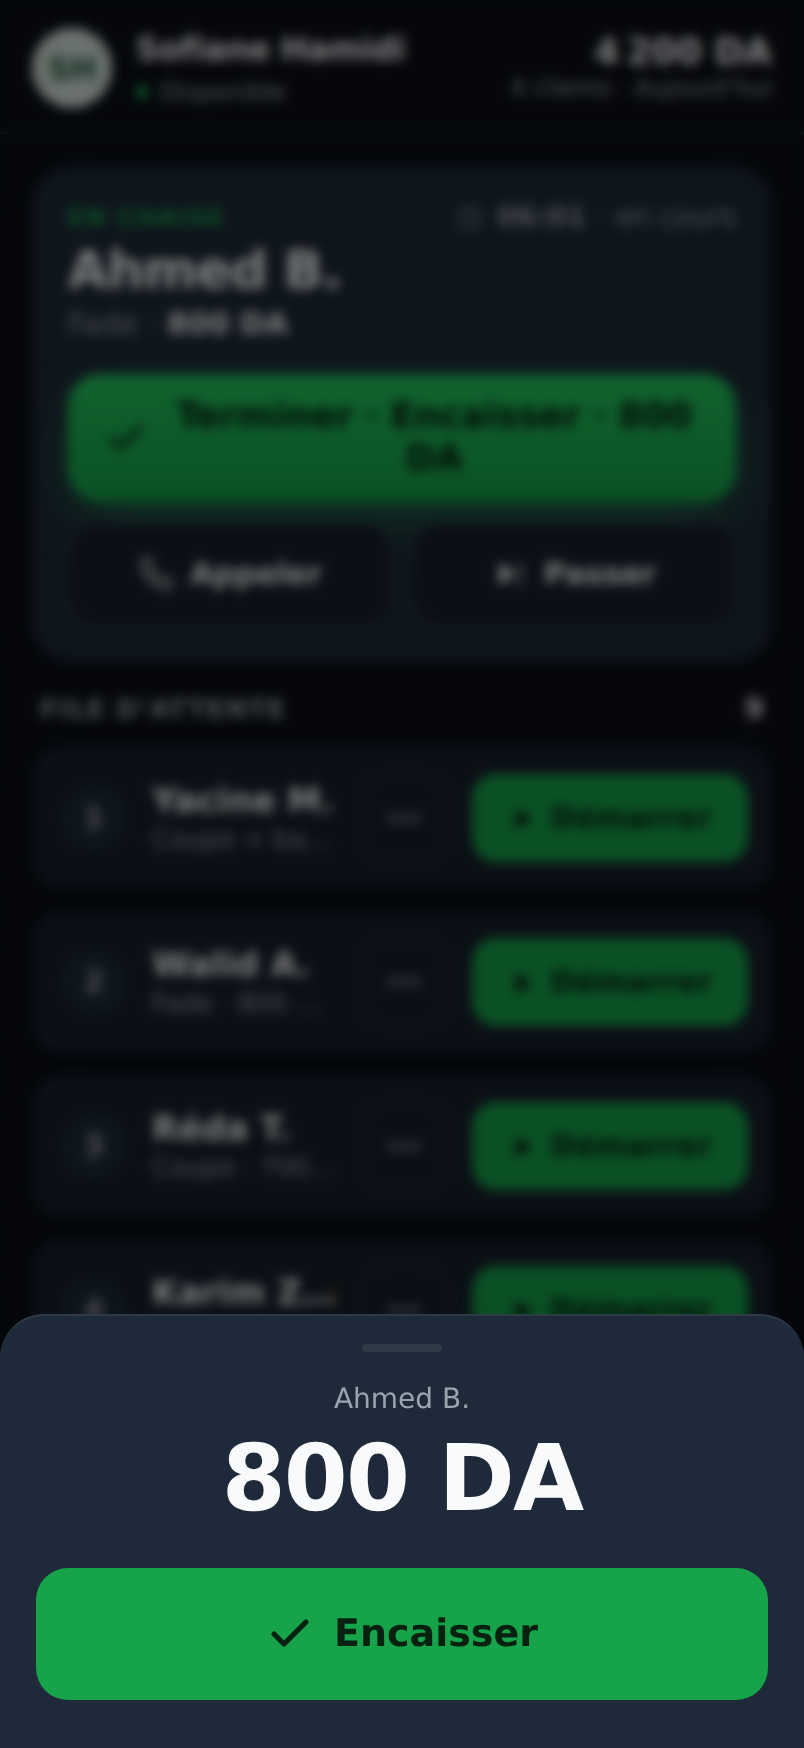
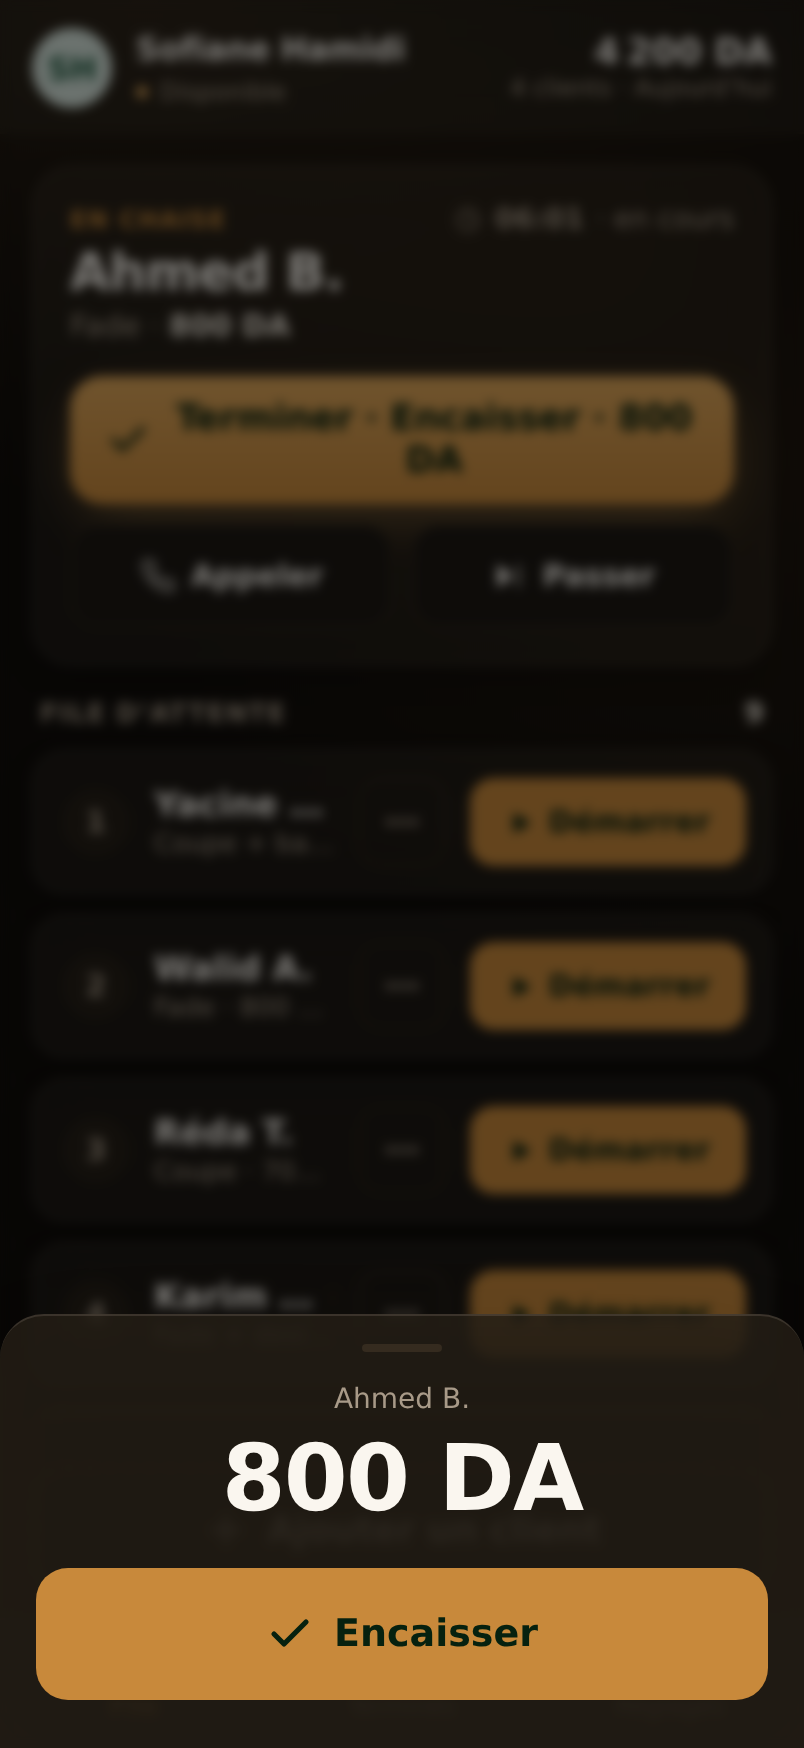
Theme: Charcoal + Brass palette + glassmorphism (frosted panels)
- New warm identity via tokens (app + site): charcoal background, brass/gold
  accent with gradient + glow, warm text/borders. Ambient page glow + page
  gradient retuned to warm tones.
- Glassmorphism on the Fast-mode app: frosted translucent panels (chair card,
  queue rows, header, tab bar) over a subtle warm-glow shell background, and a
  blurred backdrop + tinted-glass bottom sheets (checkout / add client).
- Refreshed all README screenshots (app + site) with the new look.

Verified: full-app console clean.

https://claude.ai/code/session_01KXeZ2jfMa8Hu5hkugmRzRp

diff --git a/src/barber-fast.jsx b/src/barber-fast.jsx
@@ -32,6 +32,14 @@ const FAST_STR = {
   },
 };
 
+// Frosted-glass surface (translucent + backdrop blur) for the panels.
+const GLASS = {
+  background: 'rgba(255, 248, 240, 0.05)',
+  backdropFilter: 'blur(14px) saturate(1.2)',
+  WebkitBackdropFilter: 'blur(14px) saturate(1.2)',
+  border: '1px solid rgba(255, 240, 220, 0.10)',
+};
+
 // Smoothly counts a number up to its new value (skips when reduce-motion is on).
 function useCountUp(value, ms = 480) {
   const [shown, setShown] = React.useState(value);
@@ -121,7 +129,9 @@ function BarberFast({ lang = 'fr', setLang, density = 'busy', barberId = 'sofian
 
   const shell = {
     height: '100%', display: 'flex', flexDirection: 'column', position: 'relative',
-    background: TOKENS.paper, color: TOKENS.ink, direction: dir, fontFamily: t.fontFamily,
+    background: `radial-gradient(620px 420px at 18% 0%, rgba(224,168,91,0.10), transparent 60%),
+                 radial-gradient(560px 460px at 100% 26%, rgba(200,137,59,0.08), transparent 62%), ${TOKENS.paper}`,
+    color: TOKENS.ink, direction: dir, fontFamily: t.fontFamily,
     overflow: 'hidden',
   };
   const startSide = dir === 'rtl' ? 'right' : 'left';
@@ -131,6 +141,7 @@ function BarberFast({ lang = 'fr', setLang, density = 'busy', barberId = 'sofian
       {/* ── Compact header: identity + glanceable today total ─────────────── */}
       <div style={{ flexShrink: 0, padding: '14px 16px 12px',
                     display: 'flex', alignItems: 'center', gap: 12,
+                    background: 'rgba(255, 248, 240, 0.04)', backdropFilter: 'blur(12px)', WebkitBackdropFilter: 'blur(12px)',
                     borderBottom: `1px solid ${TOKENS.borderSoft}` }}>
         <Avatar initials={barber.initials} tint={barber.tint} text={barber.text} photo={barber.photo} size={40} />
         <div style={{ flex: 1, minWidth: 0 }}>
@@ -154,7 +165,7 @@ function BarberFast({ lang = 'fr', setLang, density = 'busy', barberId = 'sofian
             <div key={current ? 'chair-' + current.client.id : 'chair-empty'} className="fast-chair"
                  style={{ animation: 'fast-chair-in 280ms cubic-bezier(0.2,0.8,0.2,1)' }}>
             {current ? (
-              <div style={{ background: TOKENS.surfaceAlt, borderRadius: 20, padding: 18, marginBottom: 16, boxShadow: TOKENS.shadowSm }}>
+              <div style={{ ...GLASS, borderRadius: 20, padding: 18, marginBottom: 16, boxShadow: TOKENS.shadowSm }}>
                 <div style={{ display: 'flex', alignItems: 'center', justifyContent: 'space-between', marginBottom: 4 }}>
                   <span style={{ fontSize: 12, fontWeight: 700, letterSpacing: '0.06em', textTransform: 'uppercase', color: TOKENS.accent }}>{L.inChair}</span>
                   <span style={{ display: 'inline-flex', alignItems: 'center', gap: 6, fontSize: 14, fontWeight: 600,
@@ -188,7 +199,7 @@ function BarberFast({ lang = 'fr', setLang, density = 'busy', barberId = 'sofian
                     <span>{L.startNext} · {waiting[0].name}</span>
                   </button>
                 ) : (
-                  <div style={{ background: TOKENS.surface, borderRadius: 20, padding: '26px 18px', textAlign: 'center', color: TOKENS.muted }}>
+                  <div style={{ ...GLASS, borderRadius: 20, padding: '26px 18px', textAlign: 'center', color: TOKENS.muted }}>
                     <div style={{ fontSize: 16, fontWeight: 600, color: TOKENS.inkSoft }}>{L.chairFree}</div>
                     <div style={{ fontSize: 14, marginTop: 6 }}>{L.empty}</div>
                   </div>
@@ -230,7 +241,7 @@ function BarberFast({ lang = 'fr', setLang, density = 'busy', barberId = 'sofian
 
       {/* ── Bottom tab bar (3 large targets) ────────────────────────────────── */}
       <div style={{ flexShrink: 0, display: 'flex', borderTop: `1px solid ${TOKENS.borderSoft}`,
-                    background: TOKENS.paper, paddingBottom: 6 }}>
+                    background: 'rgba(255, 248, 240, 0.04)', backdropFilter: 'blur(12px)', WebkitBackdropFilter: 'blur(12px)', paddingBottom: 6 }}>
         {[['now', 'list', L.tabNow], ['done', 'check', L.tabDone], ['more', 'settings', L.tabMore]].map(([id, icon, label]) => (
           <button key={id} onClick={() => setTab(id)} style={{
             flex: 1, appearance: 'none', border: 'none', background: 'transparent', cursor: 'pointer',
@@ -291,7 +302,7 @@ function BarberFast({ lang = 'fr', setLang, density = 'busy', barberId = 'sofian
 // One large queue row — name + service + one-tap "Start", with no-show tucked away.
 function FastRow({ c, i, lang, L, fmt, onStart, onNoShow, startSide }) {
   return (
-    <div className="fast-row" style={{ background: TOKENS.surface, borderRadius: 16, padding: '12px 12px 12px 14px',
+    <div className="fast-row" style={{ ...GLASS, borderRadius: 16, padding: '12px 12px 12px 14px',
                   display: 'flex', alignItems: 'center', gap: 12, minHeight: 72, boxShadow: TOKENS.shadowSm,
                   animation: 'fast-row-in 260ms ease both', animationDelay: `${Math.min(i, 6) * 35}ms` }}>
       <div style={{ width: 34, height: 34, borderRadius: '50%', flexShrink: 0,
@@ -464,9 +475,10 @@ function overlay() {
            display: 'flex', flexDirection: 'column', justifyContent: 'flex-end', animation: 'fast-fade 160ms ease-out' };
 }
 function sheet(dir) {
-  return { background: TOKENS.surfaceAlt, borderRadius: '22px 22px 0 0', padding: '14px 18px 24px',
+  return { background: 'rgba(37, 31, 23, 0.80)', backdropFilter: 'blur(22px) saturate(1.2)', WebkitBackdropFilter: 'blur(22px) saturate(1.2)',
+           borderRadius: '22px 22px 0 0', padding: '14px 18px 24px',
            direction: dir, animation: 'fast-up 240ms cubic-bezier(0.2,0.8,0.2,1)',
-           borderTop: `1px solid ${TOKENS.border}`, boxShadow: TOKENS.shadowLg };
+           borderTop: `1px solid rgba(255, 240, 220, 0.12)`, boxShadow: TOKENS.shadowLg };
 }
 function grabber() {
   return { width: 40, height: 4, borderRadius: 999, background: TOKENS.border, margin: '0 auto 16px' };

diff --git a/index.html b/index.html
@@ -19,8 +19,8 @@
 <link href="https://fonts.googleapis.com/css2?family=Inter:wght@400;500;600;700;800&family=Cairo:wght@400;500;600;700;800&family=Geist+Mono:wght@400;500;600&family=IBM+Plex+Sans+Arabic:wght@400;500;600;700&display=swap" rel="stylesheet" />
 
 <style>
-  html, body { margin: 0; padding: 0; height: 100%; background: #0A0E17;
-               background-image: radial-gradient(1100px 760px at 50% -8%, #16233B 0%, rgba(10,14,23,0) 58%); }
+  html, body { margin: 0; padding: 0; height: 100%; background: #100D0A;
+               background-image: radial-gradient(1100px 760px at 50% -8%, #2A1E10 0%, rgba(16,13,10,0) 58%); }
   body { font-family: "Inter", -apple-system, BlinkMacSystemFont, system-ui, sans-serif;
          color: #F9FAFB; -webkit-font-smoothing: antialiased;
          text-rendering: optimizeLegibility;
@@ -34,8 +34,8 @@
   button { font-family: inherit; }
   input, textarea { font-family: inherit; }
   input::placeholder { color: #4B5563; }
-  input:focus { border-color: #16A34A !important; }
-  ::selection { background: #16A34A55; }
+  input:focus { border-color: #C8893B !important; }
+  ::selection { background: #C8893B55; }
 
   /* Ambient pulsing light circles in the background — like a heartbeat */
   .ambient-blur {
@@ -44,13 +44,13 @@
     will-change: transform, opacity;
   }
   .ambient-blur.a { top: -120px; left: -120px; width: 420px; height: 420px;
-                    background: radial-gradient(circle, rgba(22,163,74,0.20), transparent 70%);
+                    background: radial-gradient(circle, rgba(200,137,59,0.20), transparent 70%);
                     animation: heart-pulse 6s ease-in-out infinite, drift-a 32s ease-in-out infinite; }
   .ambient-blur.b { bottom: -160px; right: -160px; width: 500px; height: 500px;
-                    background: radial-gradient(circle, rgba(255,255,255,0.18), transparent 70%);
+                    background: radial-gradient(circle, rgba(224,168,91,0.13), transparent 70%);
                     animation: heart-pulse 6s ease-in-out infinite 0.3s, drift-b 38s ease-in-out infinite; }
   .ambient-blur.c { top: 35%; right: -140px; width: 340px; height: 340px;
-                    background: radial-gradient(circle, rgba(34,197,94,0.15), transparent 70%);
+                    background: radial-gradient(circle, rgba(166,110,42,0.16), transparent 70%);
                     animation: heart-pulse 6s ease-in-out infinite 0.6s, drift-c 28s ease-in-out infinite; }
   @keyframes heart-pulse {
     0%, 100% { opacity: 0.16; transform: scale(1); }

diff --git a/src/data.jsx b/src/data.jsx
@@ -2,32 +2,32 @@
 // All globals are hung off `window` so other Babel <script> tags can read them.
 
 const TOKENS = {
-  // Dark Minimal — slate background, calm whitespace, green primary
-  ink:        '#F9FAFB',     // primary text
-  inkSoft:    '#F3F4F6',
-  paper:      '#0A0E17',     // page background (deeper — more depth + contrast)
-  surface:    '#161F2C',     // cards (sit above the darker page)
-  surfaceAlt: '#1E2A39',     // featured / inset
-  border:     '#2F3A47',
-  borderSoft: '#252F3A',
-  muted:      '#9CA3AF',     // secondary text
-  faint:      '#4B5563',
-  accent:     '#16A34A',     // primary button green
-  accentDeep: '#11833A',
-  accentSoft: '#0E2A1A',
-  green:      '#22C55E',     // success
-  greenDeep:  '#16A34A',
-  greenSoft:  '#0E3022',
-  amber:      '#F59E0B',     // warning
+  // Charcoal + Brass — warm charcoal background, brass/gold accent (classic barbershop)
+  ink:        '#FAF6EF',     // primary text (warm white)
+  inkSoft:    '#EFE8DC',
+  paper:      '#100D0A',     // page background (warm charcoal)
+  surface:    '#1C1813',     // cards
+  surfaceAlt: '#251F17',     // featured / inset
+  border:     '#352B1F',
+  borderSoft: '#2A2117',
+  muted:      '#A89A88',     // secondary text (warm gray)
+  faint:      '#6B5E4A',
+  accent:     '#C8893B',     // primary — brass
+  accentDeep: '#A66E2A',
+  accentSoft: '#2A2113',
+  green:      '#E0A85B',     // success → warm brass tone (kept cohesive)
+  greenDeep:  '#C8893B',
+  greenSoft:  '#2A2113',
+  amber:      '#F2A93B',     // warning / walk-in
   amberSoft:  '#3A2A0E',
-  red:        '#EF4444',     // error
-  redSoft:    '#3A1A1C',
-  accentBright: '#22C55E',   // brighter green for gradients + glow
+  red:        '#EF5350',     // error / cancel
+  redSoft:    '#3A1A1A',
+  accentBright: '#E0A85B',   // brighter brass for gradients + glow
   // Elevation + glow — applied via boxShadow
-  shadowSm:   '0 6px 18px -8px rgba(0,0,0,0.55)',
-  shadowMd:   '0 18px 44px -16px rgba(0,0,0,0.60)',
-  shadowLg:   '0 30px 70px -22px rgba(0,0,0,0.66)',
-  glow:       '0 10px 28px -6px rgba(34,197,94,0.50)',
+  shadowSm:   '0 6px 18px -8px rgba(0,0,0,0.6)',
+  shadowMd:   '0 18px 44px -16px rgba(0,0,0,0.64)',
+  shadowLg:   '0 30px 70px -22px rgba(0,0,0,0.7)',
+  glow:       '0 10px 28px -6px rgba(224,168,91,0.45)',
 };
 
 const I18N = {
